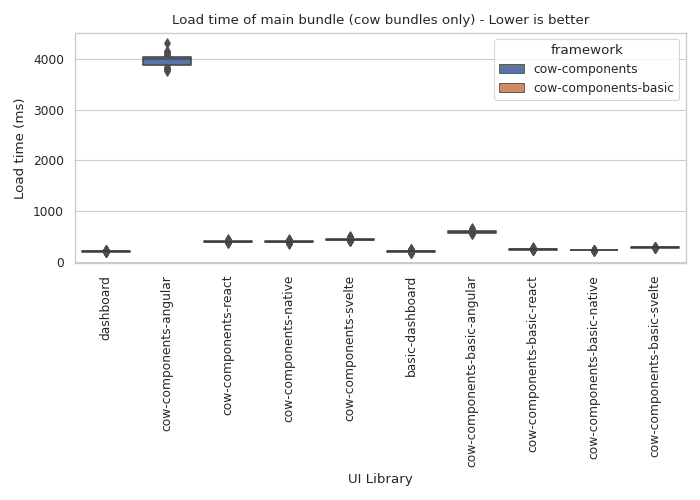
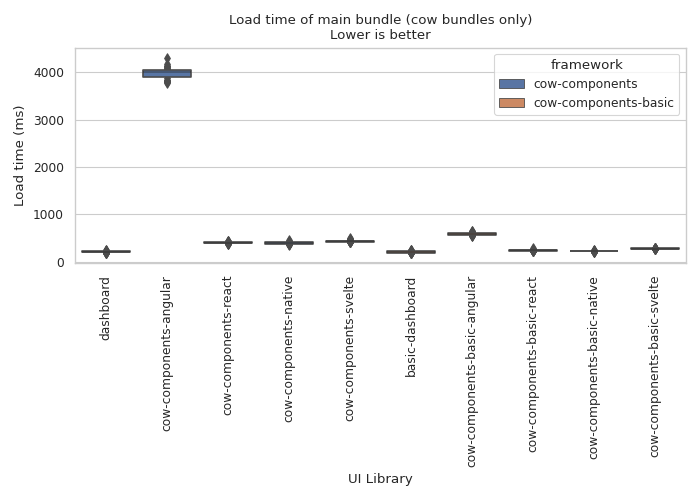
put the lower is better on a new line

diff --git a/paper/plots/generators/quality/cyclomatic_complexity.py b/paper/plots/generators/quality/cyclomatic_complexity.py
@@ -7,7 +7,7 @@ def generate_cyclomatic_complexity_plot():
     data = get_data()
 
     ax = create_plot(
-        "Cyclomatic complexity - Lower is better",
+        "Cyclomatic complexity\nLower is better",
         "boxen",
         data,
         lambda bundle_data: list(filter(lambda x: x != -1, bundle_data.cyclomatic_complexity.component_time_map.values())),

diff --git a/paper/plots/generators/quality/structural_complexity.py b/paper/plots/generators/quality/structural_complexity.py
@@ -7,7 +7,7 @@ def generate_structural_complexity_plot():
     data = get_data()
 
     ax = create_plot(
-        "Structural complexity - Lower is better",
+        "Structural complexity\nLower is better",
         "boxen",
         data,
         lambda bundle_data: list(filter(lambda x: x != -1, bundle_data.structural_complexity.component_time_map.values())),

diff --git a/paper/plots/generators/quality/maintainability.py b/paper/plots/generators/quality/maintainability.py
@@ -7,7 +7,7 @@ def generate_maintainability_plot():
     data = get_data()
 
     ax = create_plot(
-        "Maintainability - Higher is better",
+        "Maintainability\nHigher is better",
         "boxen",
         data,
         lambda bundle_data: list(filter(lambda x: x != -1, bundle_data.maintainability.component_time_map.values())),

diff --git a/paper/plots/generators/quality/size.py b/paper/plots/generators/quality/size.py
@@ -7,7 +7,7 @@ def generate_size_plot():
     data = get_data()
 
     ax = create_plot(
-        "Size - Lower is better",
+        "Size\nLower is better",
         "scatter",
         data,
         lambda bundle_data: bundle_data.size / 1024,

diff --git a/paper/plots/generators/page_load/first_paint.py b/paper/plots/generators/page_load/first_paint.py
@@ -24,7 +24,7 @@ def generate_first_paint_plot():
 
     df = pd.DataFrame(obj)
     ax = create_plot(
-        "Page load time - Lower is better",
+        "Page load time\nLower is better",
         "boxen",
         data,
         None,
